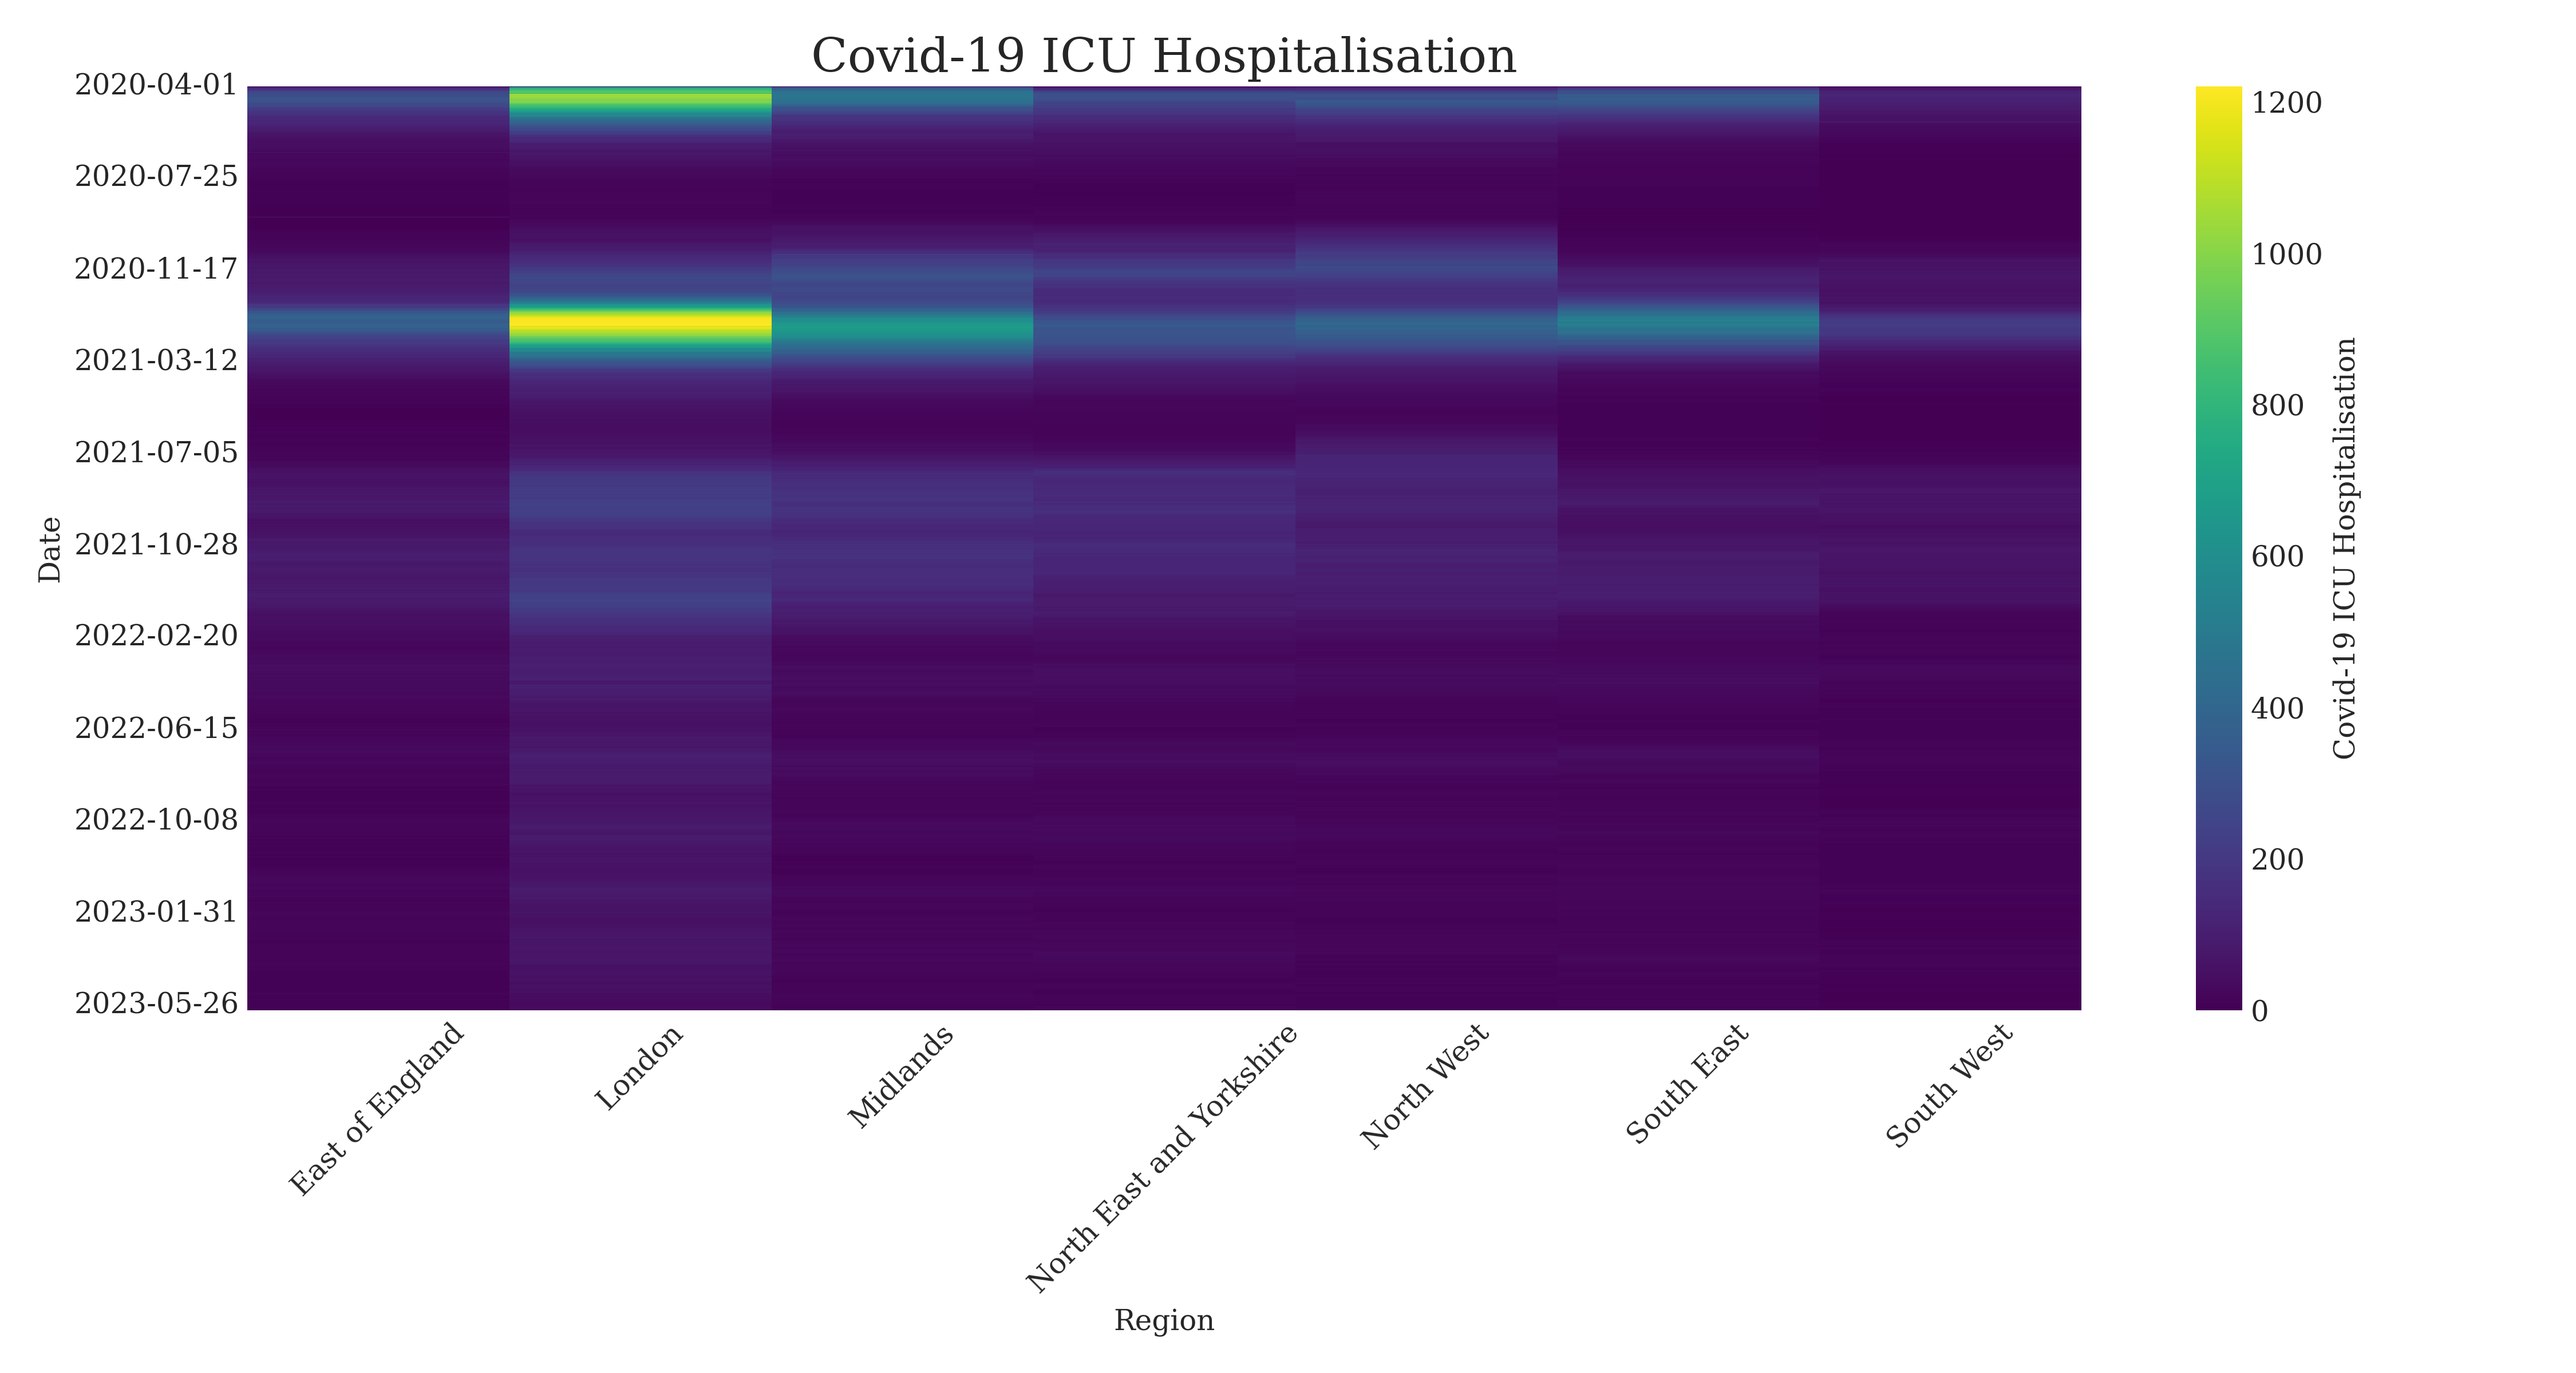
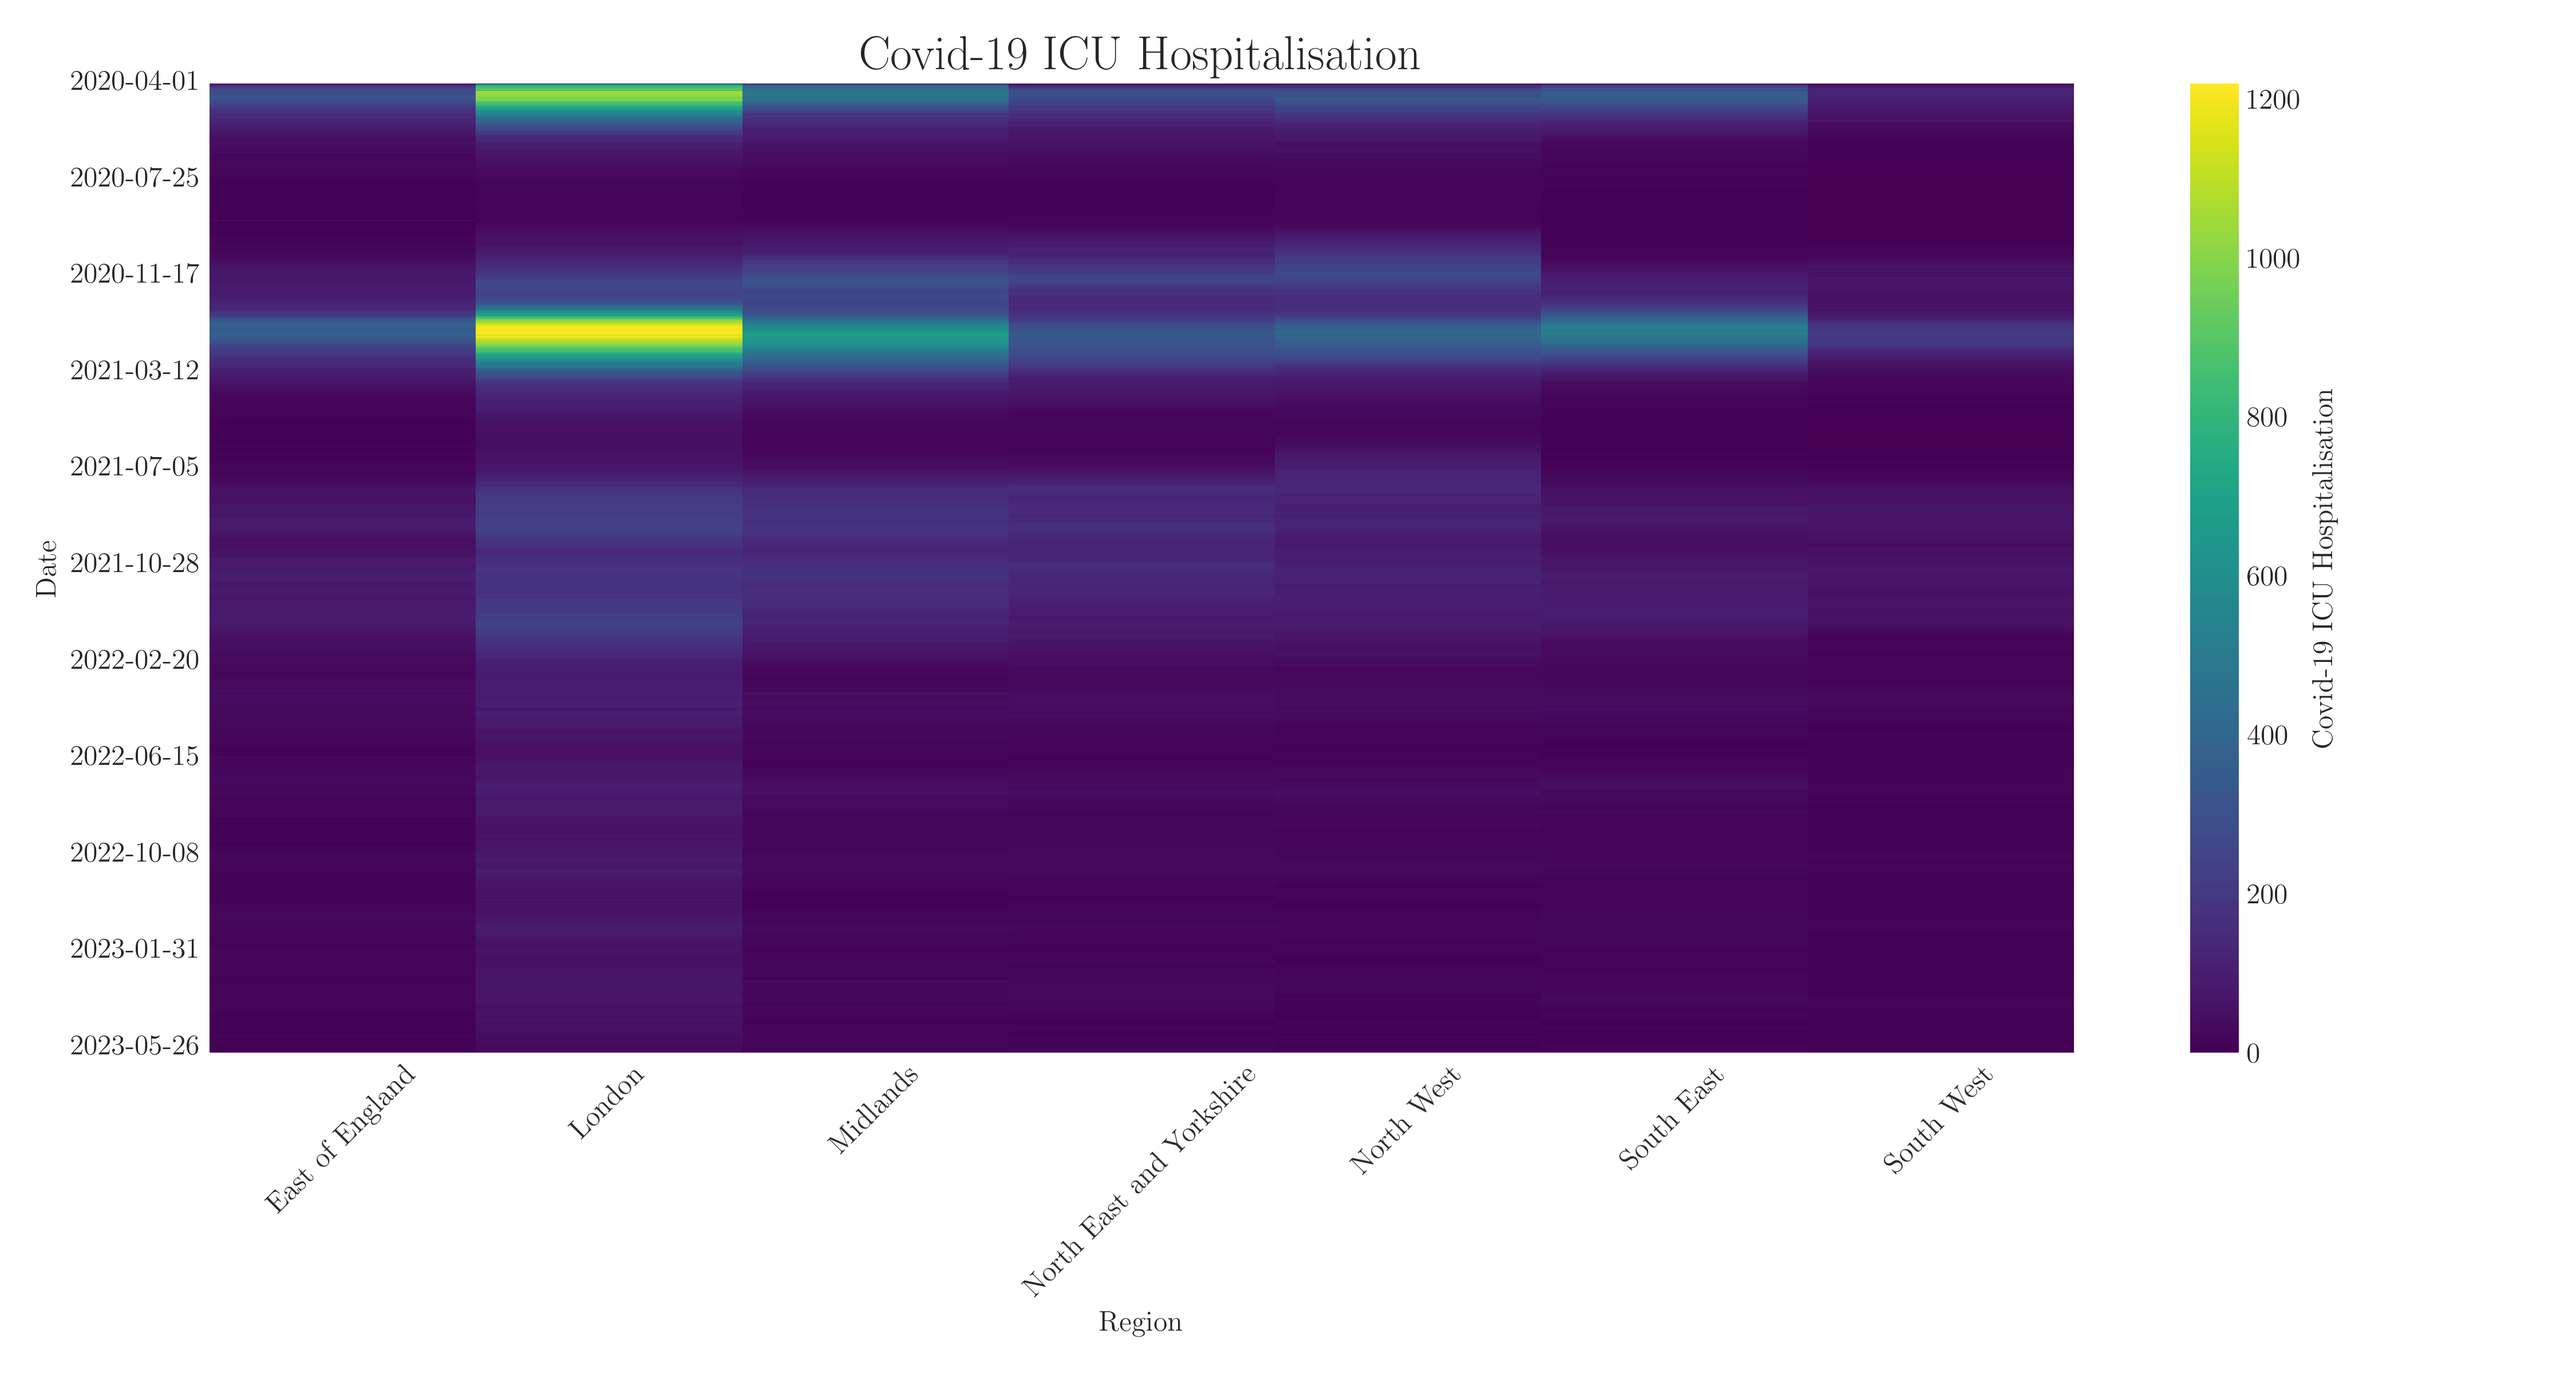
Update visualization style

diff --git a/src/visualization/visualize.py b/src/visualization/visualize.py
@@ -3,7 +3,8 @@ import numpy as np
 import matplotlib.pyplot as plt
 import seaborn as sns
 
-plt.style.use('seaborn-v0_8-white')
+plt.style.use('seaborn-v0_8-whitegrid')
+# plt.style.available
 plt.rcParams.update({
     "lines.linewidth": 2,
     "font.family": "serif",
@@ -13,8 +14,8 @@ plt.rcParams.update({
     "figure.autolayout": True,
     "axes.spines.top": False,
     "axes.spines.right": False,
-    # "axes.grid": True,
-    # "grid.color": "0.75",
+    "axes.grid": True,
+    "grid.color": "0.75",
     "legend.fontsize": "medium",
     "legend.frameon": False,
     "legend.loc": "best",
@@ -23,9 +24,8 @@ plt.rcParams.update({
     "xtick.labelsize": 12,
     "ytick.labelsize": 12,
     "figure.dpi": 300
-    
 })
-
+plt.rcParams.keys()
 first_data = "../../data/interim/pickle/nhs_region_data.pkl"
 second_data = "../../data/raw/pickle/covid19_data.pkl"
 data_column = "date"
